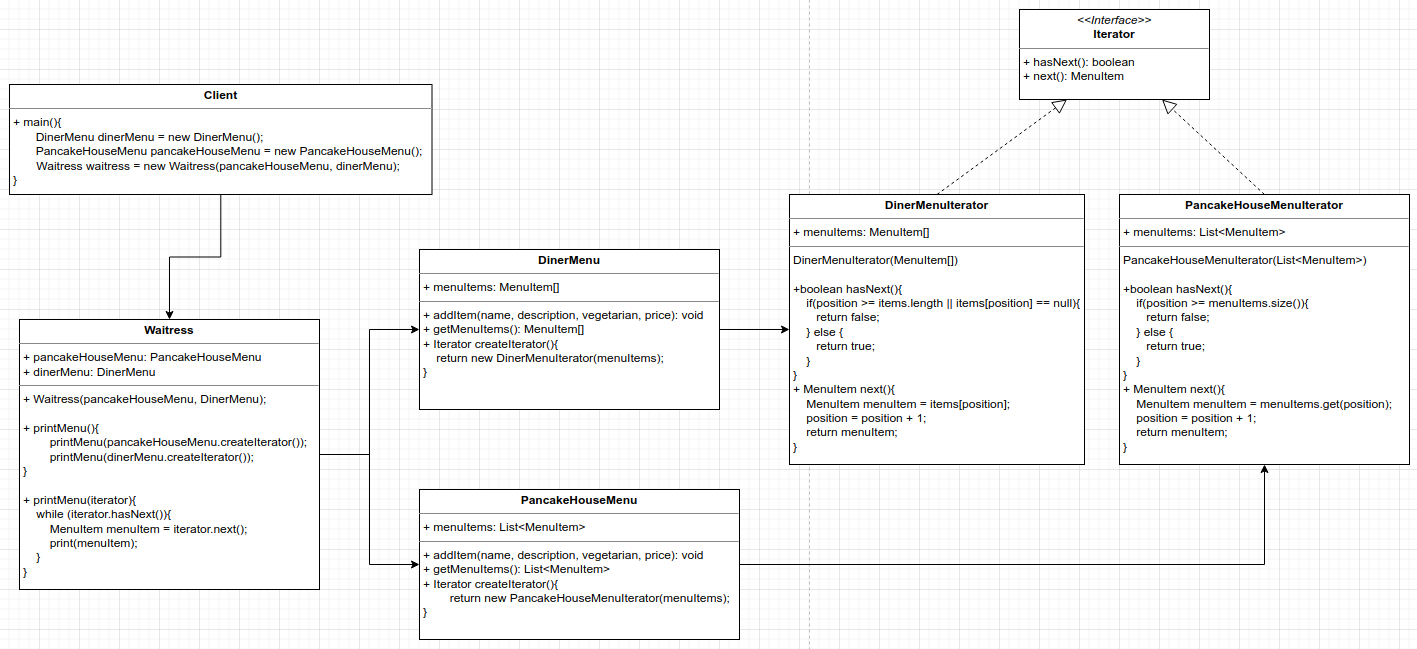
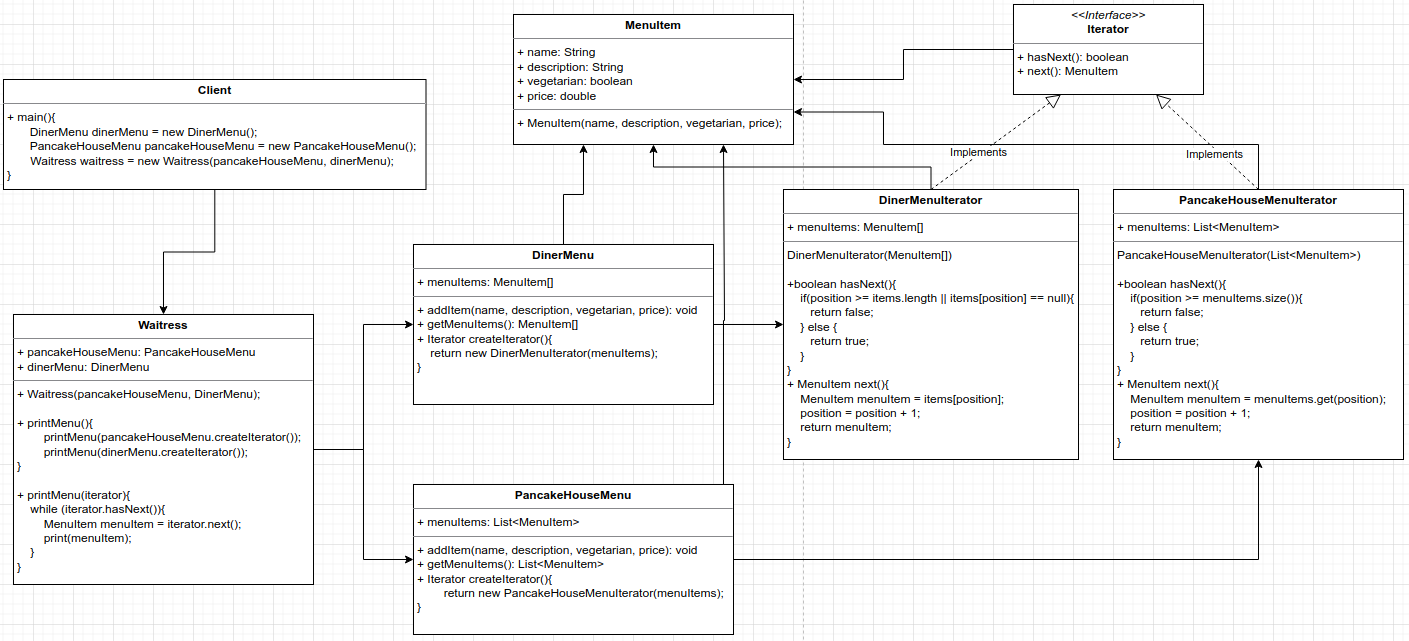
Added explanation to iterator pattern

diff --git a/iterator/README.md b/iterator/README.md
@@ -15,9 +15,10 @@ AFTER
 
 ![img.png](src/images/img_1.png)
 
-If you want, you can also simplify by using the Iterator interface from Java language:
+If you want, you can also simplify by using the Iterator interface from Java language, since List interface already have a method that give an Iterator, you don't need
+the PancakeHouseMenuIterator class:
 
-
+![img.png](src/images/img_2.png)
 
 
 ```
